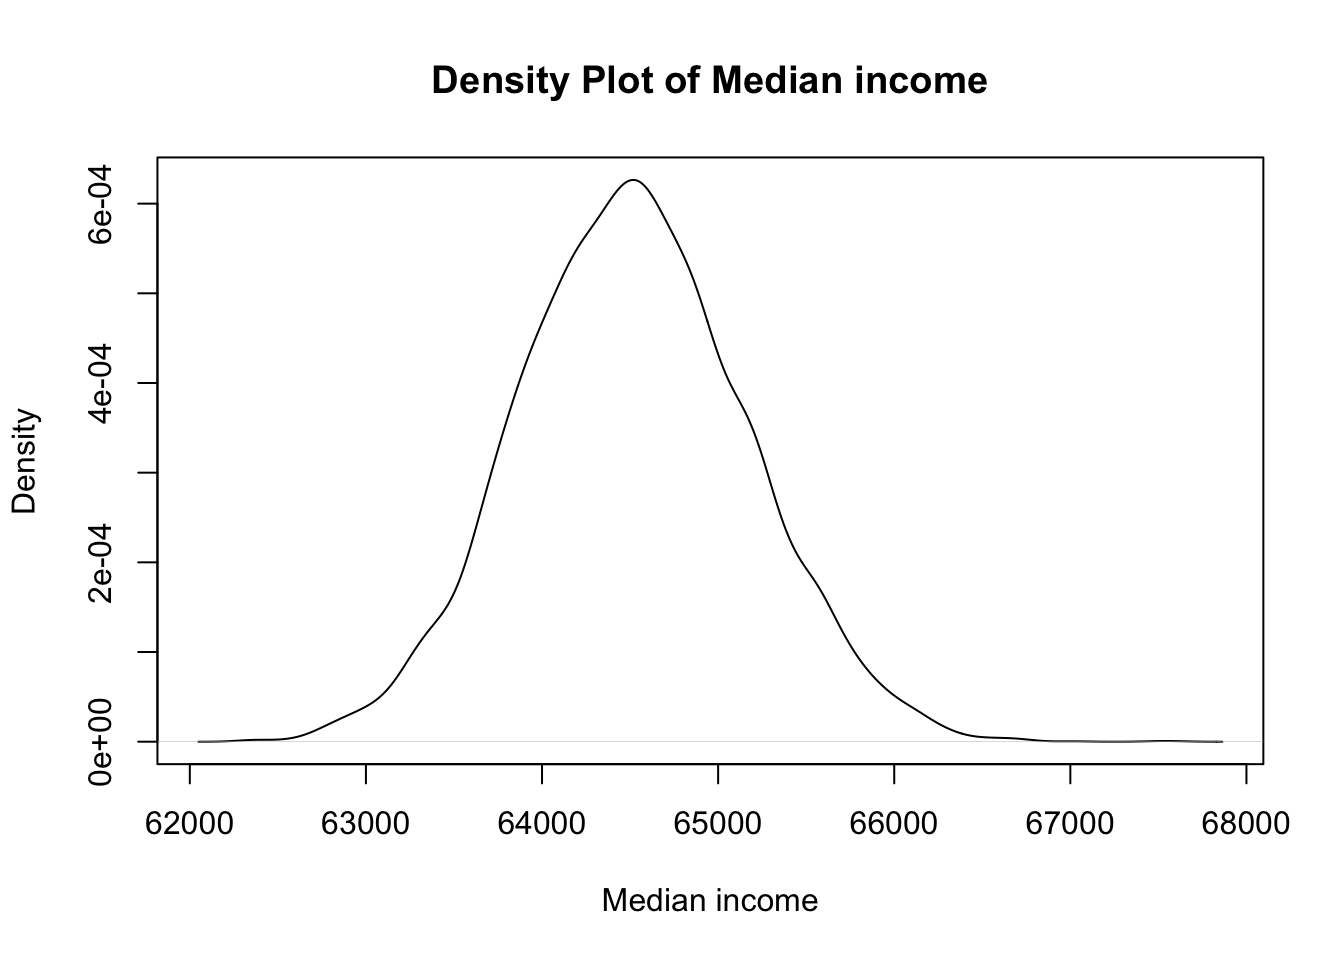
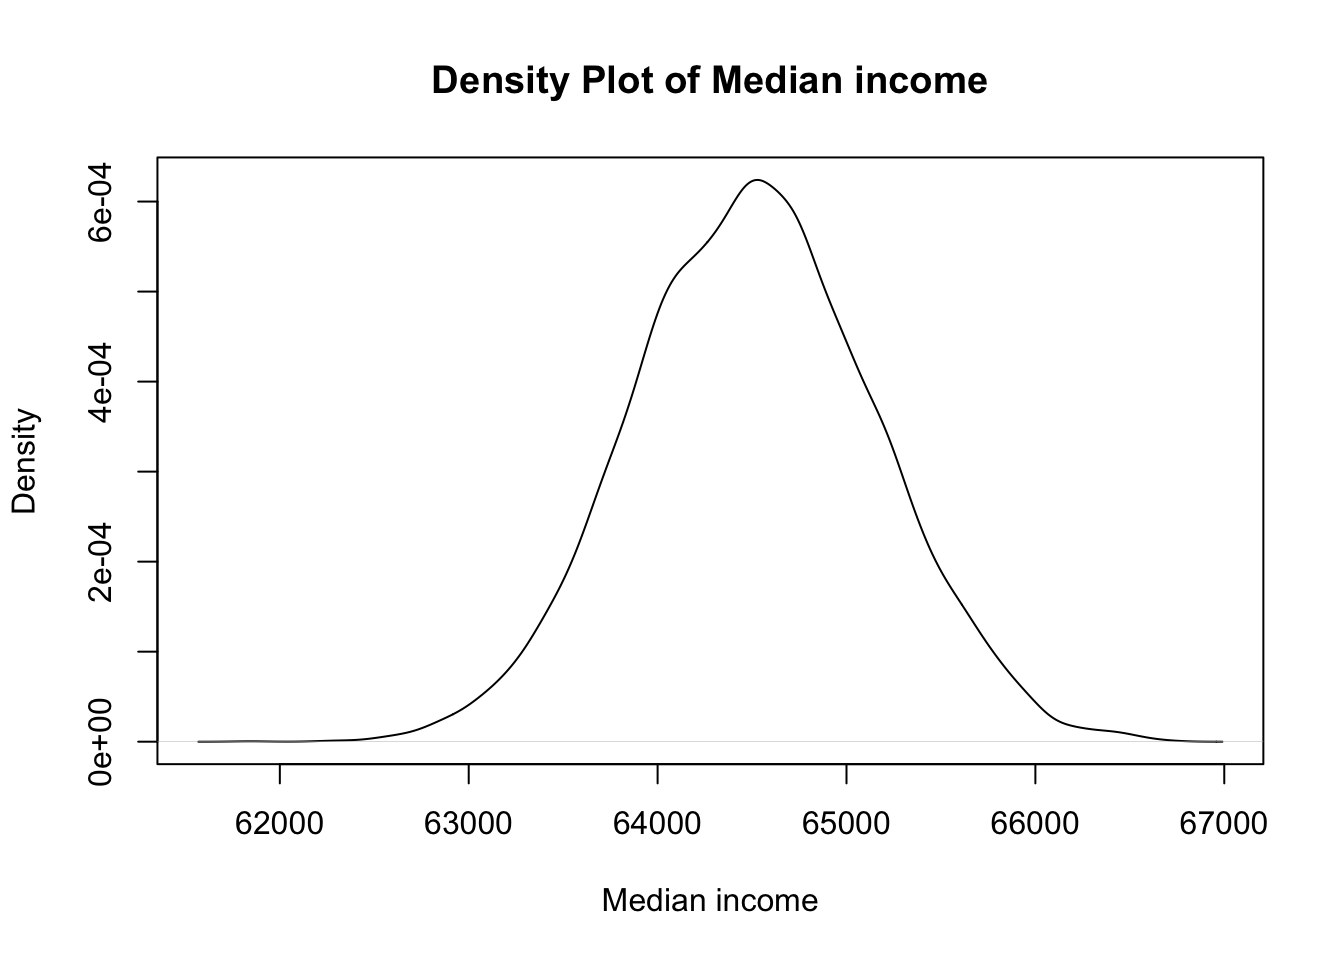
jensen 3924,2

diff --git a/docs/Catallactics/Personal/jenson.html b/docs/Catallactics/Personal/jenson.html
@@ -903,7 +903,7 @@ window.Quarto = {
 
 <section id="risk-and-pay-off-graph" class="level2">
 <h2 class="anchored" data-anchor-id="risk-and-pay-off-graph">Risk and pay-off graph</h2>
-<p>Pay-off, g, is a convex function of x, given by f(x)=g.</p>
+<p>Pay-off, g, is a convex function of risk, x, given by f(x)=g.</p>
 <p>Let us plot <strong>risk</strong>, x, in x axis and <strong>pay-off</strong>, g, in y axis. When we go to the right in the x axis, risk goes on increasing and at one point x<sub>2</sub>, risk is 100%. We can loose everything deployed. Yet the reward is exponentially high to ignore,1000%!. In the extreme left, x<sub>1</sub> , we can deploy the same asset with zero risk to get a modest return of 9%. Let the probability of x<sub>1</sub> be p<sub>1</sub> and probability of x<sub>2</sub> be p<sub>2</sub>. p<sub>1</sub> is extremely likely event and p<sub>2</sub> is less likely event, and they can be unrelated. But for simplicity, p<sub>1</sub> is around 66% and p<sub>2</sub> is around 33% ( assuming that x<sub>2</sub> happens when ever market moves more than 10% in either directions in 6 months). The below diagram graphically depicts the above mentioned scenario.</p>
 <div class="quarto-figure quarto-figure-center">
 <figure class="figure">

diff --git a/docs/posts/montecarlo.html b/docs/posts/montecarlo.html
@@ -1071,7 +1071,7 @@ Income distribution is not normal
 </details>
 <div class="cell-output cell-output-stdout">
 <pre><code>     Min.   1st Qu.    Median      Mean   3rd Qu.      Max. 
-2.149e+05 2.964e+05 3.428e+05 3.047e+06 4.362e+05 2.390e+10 </code></pre>
+   208538    296080    344468    574651    443066 246749866 </code></pre>
 </div>
 <details open="" class="code-fold">
 <summary>Code</summary>
@@ -1079,7 +1079,7 @@ Income distribution is not normal
 </details>
 <div class="cell-output cell-output-stdout">
 <pre><code>   Min. 1st Qu.  Median    Mean 3rd Qu.    Max. 
-  62325   64074   64503   64515   64939   67587 </code></pre>
+  61844   64069   64506   64509   64940   66715 </code></pre>
 </div>
 <details open="" class="code-fold">
 <summary>Code</summary>
@@ -1087,7 +1087,7 @@ Income distribution is not normal
 </details>
 <div class="cell-output cell-output-stdout">
 <pre><code>     Min.   1st Qu.    Median      Mean   3rd Qu.      Max. 
-9.828e+05 3.338e+06 5.603e+06 2.753e+08 1.184e+07 2.390e+12 </code></pre>
+1.042e+06 3.329e+06 5.619e+06 2.799e+07 1.239e+07 2.465e+10 </code></pre>
 </div>
 </div>
 </section>

diff --git a/docs/Biomedical/Research Methodology/wrangling.html b/docs/Biomedical/Research Methodology/wrangling.html
@@ -2369,10 +2369,10 @@ Record
    &lt;int&gt; &lt;int&gt; &lt;fctr&gt;
 1:     1     0  child
 2:     2     1  child
-3:     3     1  child
+3:     3     0  child
 4:     4     1  child
-5:     5     1  child
-6:     6     0  child</code></pre>
+5:     5     0  child
+6:     6     1  child</code></pre>
 </div>
 </div>
 <section id="making-data-wide" class="level3">
@@ -2392,10 +2392,10 @@ Record
    &lt;int&gt; &lt;fctr&gt; &lt;fctr&gt;
 1:     1  child   &lt;NA&gt;
 2:     2   &lt;NA&gt;  child
-3:     3   &lt;NA&gt;  child
+3:     3  child   &lt;NA&gt;
 4:     4   &lt;NA&gt;  child
-5:     5   &lt;NA&gt;  child
-6:     6  child   &lt;NA&gt;</code></pre>
+5:     5  child   &lt;NA&gt;
+6:     6   &lt;NA&gt;  child</code></pre>
 </div>
 </div>
 

diff --git a/docs/Revision notes/Diagrams/diagrams.html b/docs/Revision notes/Diagrams/diagrams.html
@@ -1351,7 +1351,7 @@ window.document.addEventListener("DOMContentLoaded", function (event) {
 </div>
   </div>
 </footer>
-<script>var lightboxQuarto = GLightbox({"selector":".lightbox","closeEffect":"zoom","loop":false,"openEffect":"zoom","descPosition":"bottom"});
+<script>var lightboxQuarto = GLightbox({"openEffect":"zoom","selector":".lightbox","closeEffect":"zoom","loop":false,"descPosition":"bottom"});
 window.onload = () => {
   lightboxQuarto.on('slide_before_load', (data) => {
     const { slideIndex, slideNode, slideConfig, player, trigger } = data;
